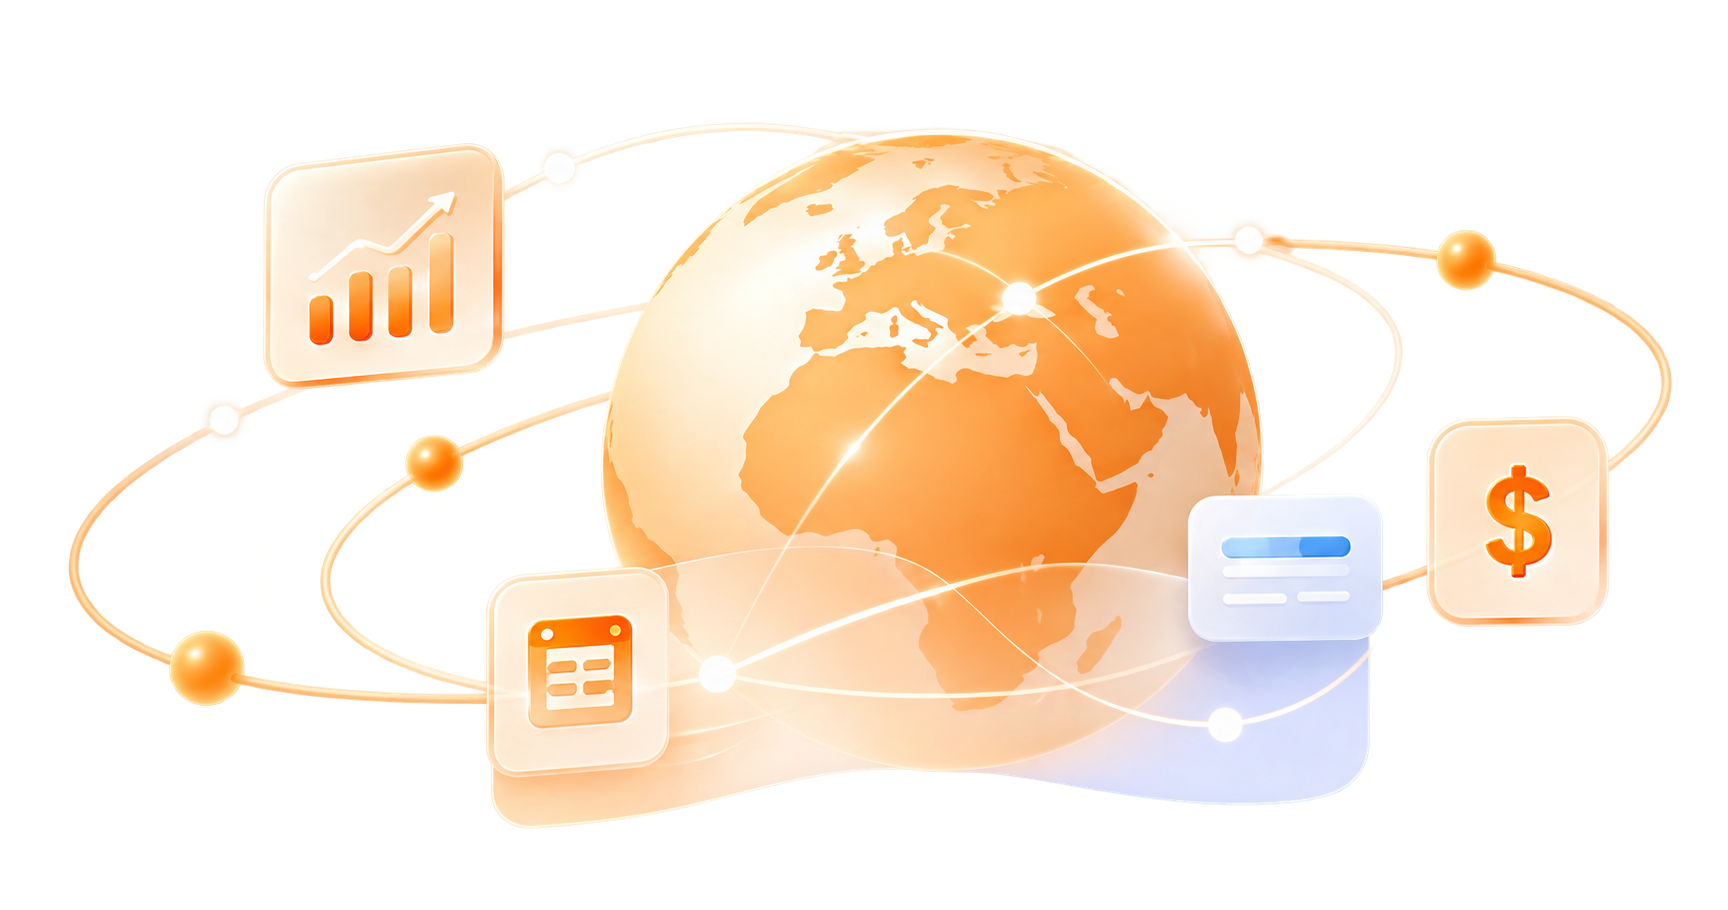
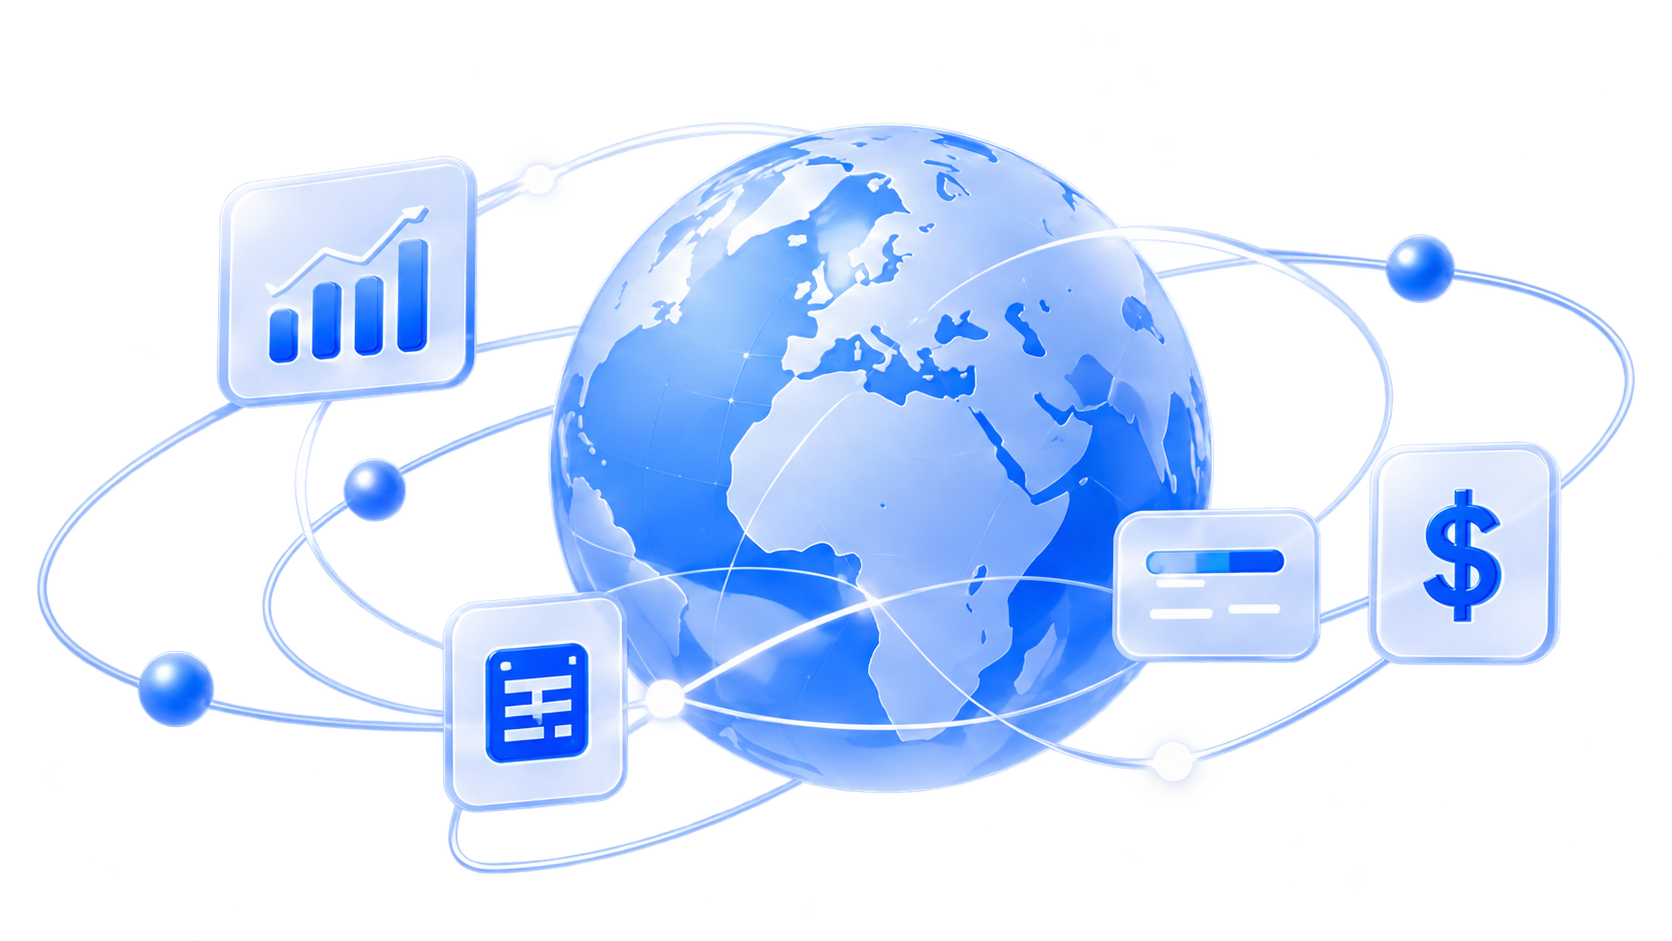
chore(fe): swap hero illustration for updated asset
New homeimg.png replaces the previous hero-illustration; dimensions changed
(1728x910 -> 1672x941), updated img width/height attrs to match.

diff --git a/fe/index.html b/fe/index.html
@@ -38,7 +38,7 @@
     <link rel="icon" type="image/png" sizes="512x512"
         href="https://ik.imagekit.io/o2u9hny2s/vietdataverse/icon-512.png">
     <link rel="manifest" href="manifest.json">
-    <link rel="stylesheet" href="style.css?v=2026082903">
+    <link rel="stylesheet" href="style.css?v=2026082904">
     <meta name="theme-color" content="#f5f4ed">
     <meta name="msapplication-TileColor" content="#2f5fde">
     <meta name="msapplication-TileImage" content="https://ik.imagekit.io/o2u9hny2s/vietdataverse/icon-512.png">
@@ -76,7 +76,7 @@
     <link rel="preconnect" href="https://cdnjs.cloudflare.com" crossorigin>
     <link rel="preconnect" href="https://api.vietdataverse.online" crossorigin>
     <link rel="dns-prefetch" href="https://api.vietdataverse.online">
-    <link rel="preload" href="style.css?v=2026082903" as="style">
+    <link rel="preload" href="style.css?v=2026082904" as="style">
     <link
         href="https://fonts.googleapis.com/css2?family=Inter:wght@300;400;500;600;700&family=Lora:wght@400;500;600&display=swap"
         rel="stylesheet">
@@ -657,7 +657,7 @@
                         </div>
                         <picture class="data-hero-art">
                             <source srcset="images/hero-illustration.webp" type="image/webp">
-                            <img src="images/hero-illustration.png" alt="" width="1728" height="910" loading="eager" fetchpriority="high">
+                            <img src="images/hero-illustration.png" alt="" width="1672" height="941" loading="eager" fetchpriority="high">
                         </picture>
                     </section>
 
@@ -2024,7 +2024,7 @@
         </div>
     </div>
 
-    <script src="app.js?v=2026082903" defer></script>
+    <script src="app.js?v=2026082904" defer></script>
     <script src="app.overview.js?v=2026082701" defer></script>
     <script src="app.knowledge.js?v=2026061401" defer></script>
 

diff --git a/fe/partials/_layout_head.html b/fe/partials/_layout_head.html
@@ -37,7 +37,7 @@
     <link rel="icon" type="image/png" sizes="512x512"
         href="https://ik.imagekit.io/o2u9hny2s/vietdataverse/icon-512.png">
     <link rel="manifest" href="manifest.json">
-    <link rel="stylesheet" href="style.css?v=2026082903">
+    <link rel="stylesheet" href="style.css?v=2026082904">
     <meta name="theme-color" content="#f5f4ed">
     <meta name="msapplication-TileColor" content="#2f5fde">
     <meta name="msapplication-TileImage" content="https://ik.imagekit.io/o2u9hny2s/vietdataverse/icon-512.png">
@@ -75,7 +75,7 @@
     <link rel="preconnect" href="https://cdnjs.cloudflare.com" crossorigin>
     <link rel="preconnect" href="https://api.vietdataverse.online" crossorigin>
     <link rel="dns-prefetch" href="https://api.vietdataverse.online">
-    <link rel="preload" href="style.css?v=2026082903" as="style">
+    <link rel="preload" href="style.css?v=2026082904" as="style">
     <link
         href="https://fonts.googleapis.com/css2?family=Inter:wght@300;400;500;600;700&family=Lora:wght@400;500;600&display=swap"
         rel="stylesheet">

diff --git a/fe/partials/_tab_data_portal.html b/fe/partials/_tab_data_portal.html
@@ -18,7 +18,7 @@
                         </div>
                         <picture class="data-hero-art">
                             <source srcset="images/hero-illustration.webp" type="image/webp">
-                            <img src="images/hero-illustration.png" alt="" width="1728" height="910" loading="eager" fetchpriority="high">
+                            <img src="images/hero-illustration.png" alt="" width="1672" height="941" loading="eager" fetchpriority="high">
                         </picture>
                     </section>
 

diff --git a/fe/partials/_layout_footer.html b/fe/partials/_layout_footer.html
@@ -47,7 +47,7 @@
         </div>
     </div>
 
-    <script src="app.js?v=2026082903" defer></script>
+    <script src="app.js?v=2026082904" defer></script>
     <script src="app.overview.js?v=2026082701" defer></script>
     <script src="app.knowledge.js?v=2026061401" defer></script>
 
